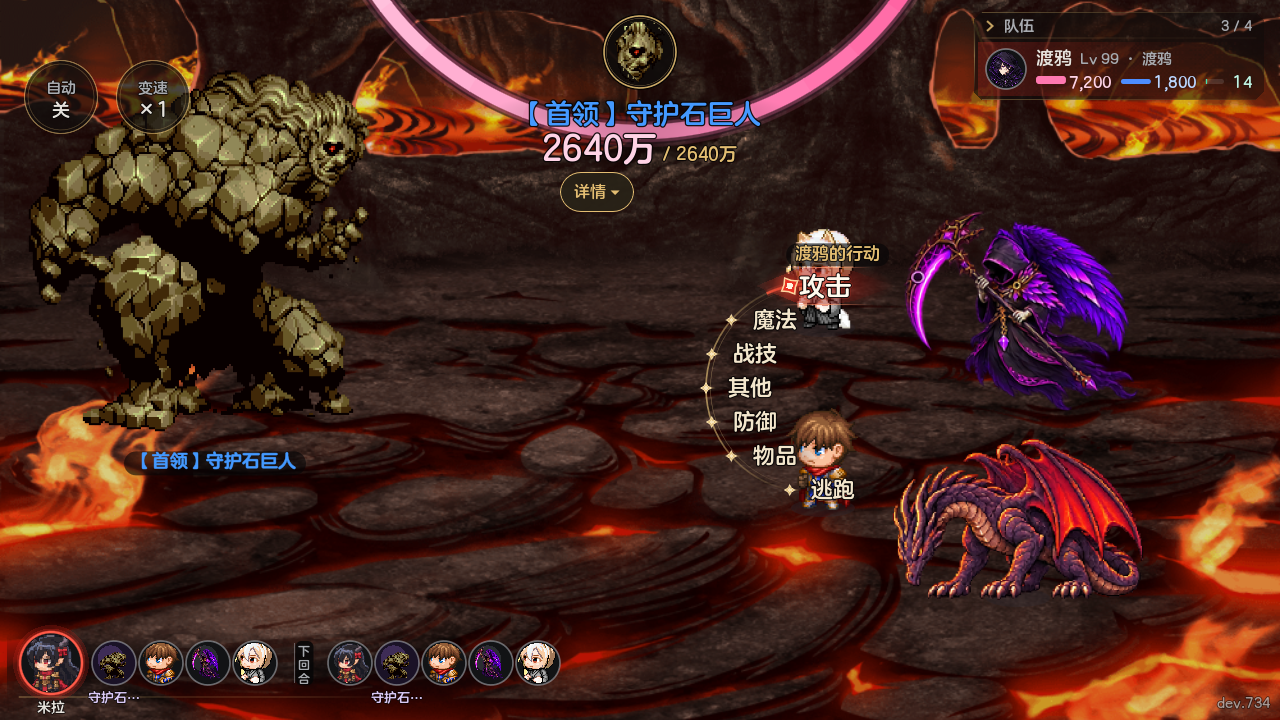
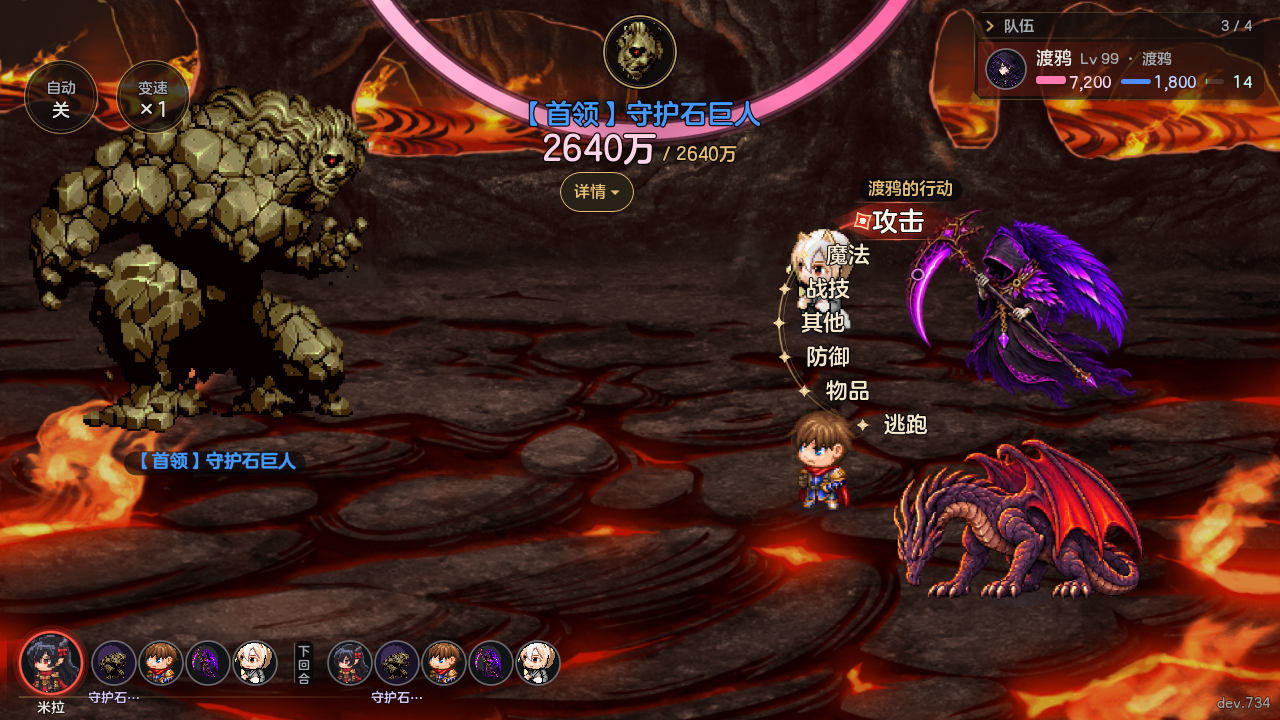
T208 R4：渡鸦神话指令环贴斗篷躯干、环心对躯干中段、标签在头侧（BIG_CORE）；米拉不变；重截
执行者: cc
核查: 待审查

Changed region(s): [[0.0, 0.0917, 0.3125, 0.6111], [0.5312, 0.2444, 0.9062, 0.7028]]

diff --git a/00_项目管理/交付/luiluu_t208.md b/00_项目管理/交付/luiluu_t208.md
@@ -11,13 +11,14 @@
 - 协调预筛返工：P1-1 列表往左挪后表头被首领信息区「详情」胶囊盖住——列表（外侧、下方中间两档）都要让开首领信息区：顶边压到它下沿以下 8px，底边再碰行动顺序条／画面底就减行数滚动（`XSkinBattleSkillList.fit_rows`，选中行保持可见）。P2-1 样张假数据——专项改用真实技能表（照指令环上技能类指令过滤，取技能最多那类，标题＝指令名），渡鸦满进阶学全真实技能（渡鸦那张标题是「魔法」，她的六招都在魔法类）；两张列表样张重截。P3（列表盖前排两个小队友）照协调不改。
 - R2（Kyo 11-18「指令环位置不行。我还是要在精灵身边。哪怕挡一下别的角色」）：指令环只躲自己的身体——贴身体左边（压首领信息区就往下挪、压行动顺序条就往上抬），左边不行再贴右边，两侧都不行才落下方中间；压前排队友不再算放不下。开关 `XBattleScene.RING_BESIDE`（false＝回 R1：压队友就落下方中间）。实测 4 人队（狗逍遥、里德、渡鸦神话、米拉黑龙）首领战、小怪战：两只大型变身的指令环都贴在身体左边（米拉盖里德，渡鸦盖狗逍遥、里德）；只 2 人时同样贴左边。列表保持 R1（Kyo 没意见）：贴身体左边、让开首领信息区、只躲行动顺序条。
 - R3（Kyo 11-18「渡鸦那个怎么这么大。米拉的挺合适的」「渡鸦的指令环位置也不太对」）：查明原因——不是按身体高度放大，是渡鸦神话有 7 项（多「其他」），走了 T190 七项排法（`XSkinBattleRing.SEVEN_FIX`：弧对称放在正左、半径加大到相邻两项竖向 ≥34），半径 104→约 200，环高约 400、从头顶拉到脚下。改法：大型变身 7 项起改用紧凑排法（`XSkinBattleRing.compact`：半径同 6 项的 104，各项竖向等距 34，多一项多一行；8 项起才加到刚好装得下），开关 `XBattleScene.BIG_RING_COMPACT`（false 回 T190 排法）。改后渡鸦环高 280（米拉 260），同半径；摆法同米拉（环心＝脚底上 32，环右沿离身体框 8），环心相对身体中段偏移 73.9 对米拉 68（渡鸦身体框含浮空高 211.7，环还要让开首领信息区 2px）。普通角色（含 7 项的普通角色，T190 排法）、米拉黑龙不变（米拉的环框数值与 R2 相同，PNG 字节不同只是背景动画帧）。
+- R4（Kyo 11-18「这个指令环感觉都不是渡鸦的指令环」）：渡鸦神话的身体外框含左伸的镰刀和右展的翅膀，按外框贴身时环离斗篷躯干七八十像素、弧心包着前排两个小队友。新增 `XBattleScene.BIG_CORE`（各形态身体主体占外框的比例，量自 200 档待机图；渡鸦神话＝斗篷躯干 x 0.316～0.686、y 0.15～0.93）：指令环贴主体左沿（压镰刀杆、斗篷外沿可以，不压兜帽脸）、环心对主体竖向中段；首领信息区改逐项判（不拿整环外框），环顶两项和「渡鸦的行动」落在渡鸦头侧左边。米拉黑龙没列入，跟 R3 逐像素一样（专项断言 `_mira_same_as_r3`；附 `T208_首领战_米拉黑龙行动_指令环_R4确认.png`）。开关 `XBattleScene.RING_HUG_CORE`（false＝回 R3 贴外框）。
 - T197 小A P2-2：`turn_marker.gd` 两个开关——`HOLD_WHILE_HIDING`：`set_target(null)` 后等 HIDE_DELAY 那段只许保持或变淡、不许淡入（逃跑成功关窗后不再闪出来，两次行动之间也不闪）；`HIDE_ON_MESSAGE`：战斗消息窗开着（逃跑失败两行等）当作挡住。回退：两个都设 false。
-- 新专项 `tests/xiyou_big_form_menu`（无头 124/124，窗口 128/128）：大型变身指令环、真实技能列表不压身体、不出屏、不压行动顺序条，列表不压首领信息区、减行数后选中行可见；指令环贴身体左边或右边、不压首领信息区，RING_BESIDE 关时落下方中间（咬得住）；两只大型变身环同半径、渡鸦只多一行、环心对身体中段偏移相差 ≤8、贴身间距相同，BIG_RING_COMPACT 关时渡鸦环变大（咬得住）；狗逍遥、里德指令环与列表位置跟开关关逐像素相等；开关关时龙身确实被压（咬得住）；触屏跟角色摆法同样不压；宝石菜单开淡出／关淡入照旧；P2-2 等淡出时峰值 ≤0.01、开关关会闪（>0.05，咬得住）；消息窗开着挡住、关掉回来。
+- 新专项 `tests/xiyou_big_form_menu`（无头 134/134，窗口 138/138）：大型变身指令环、真实技能列表不压身体、不出屏、不压行动顺序条，列表不压首领信息区、减行数后选中行可见；指令环贴身体左边或右边、不压首领信息区，RING_BESIDE 关时落下方中间（咬得住）；两只大型变身环同半径、渡鸦只多一行、贴身（主体）间距相同；R4 渡鸦环心对躯干中段 ≤2、不压兜帽脸、标签在渡鸦头侧且不压小队友、米拉跟 R3 逐像素同，BIG_RING_COMPACT 关时渡鸦环变大（咬得住）；狗逍遥、里德指令环与列表位置跟开关关逐像素相等；开关关时龙身确实被压（咬得住）；触屏跟角色摆法同样不压；宝石菜单开淡出／关淡入照旧；P2-2 等淡出时峰值 ≤0.01、开关关会闪（>0.05，咬得住）；消息窗开着挡住、关掉回来。
 - 玩家可见：米拉黑龙、渡鸦神话行动时，指令菜单和技能列表改到它们身体旁边，不再盖住它们；逃跑时角色头顶的红宝石不再闪一下。
 
 ## 交接板
 
-- 下一步：渡鸦神话指令环已按 Kyo R3 重截（同米拉大小）；指令环两张原按 Kyo R2「要在精灵身边」重截（`luiluu_t208附图/T208_首领战_米拉黑龙行动_指令环.png`、`…渡鸦神话行动_指令环.png`，1280×720 原尺寸，4 人满队首领战），协调给 Kyo 审样；列表两张是 R1 预筛后的版本。
+- 下一步：渡鸦神话指令环已按 R4（贴斗篷躯干）重截，米拉附 R4 确认张（位置跟 R3 相同）；此前按 Kyo R3 重截（同米拉大小）；指令环两张原按 Kyo R2「要在精灵身边」重截（`luiluu_t208附图/T208_首领战_米拉黑龙行动_指令环.png`、`…渡鸦神话行动_指令环.png`，1280×720 原尺寸，4 人满队首领战），协调给 Kyo 审样；列表两张是 R1 预筛后的版本。
 - 用户试玩说明：天启篇米拉黑龙／渡鸦神话变身后轮到它行动，看指令环是不是不再压身体。
 - 需要用户决定：无。
 
@@ -46,3 +47,4 @@
 - （本次）预筛 P1-1 列表让开首领信息区＋减行数、P2-1 真实技能样张重截
 - （本次）R2 指令环贴精灵身边（RING_BESIDE），重截指令环两张
 - （本次）R3 大型变身 7 项指令环紧凑排法（BIG_RING_COMPACT），重截渡鸦神话指令环
+- （本次）R4 渡鸦神话指令环贴斗篷躯干（BIG_CORE／RING_HUG_CORE），重截渡鸦、附米拉确认张
